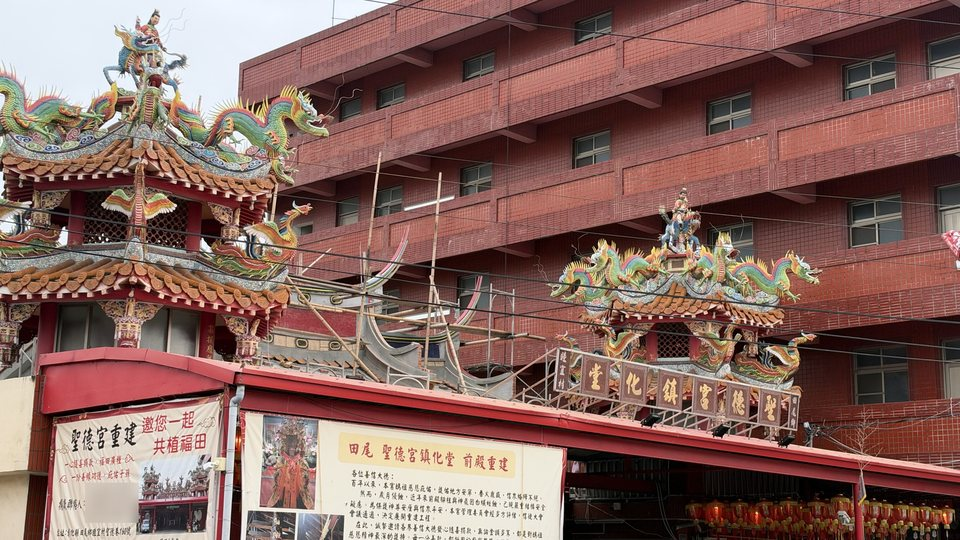
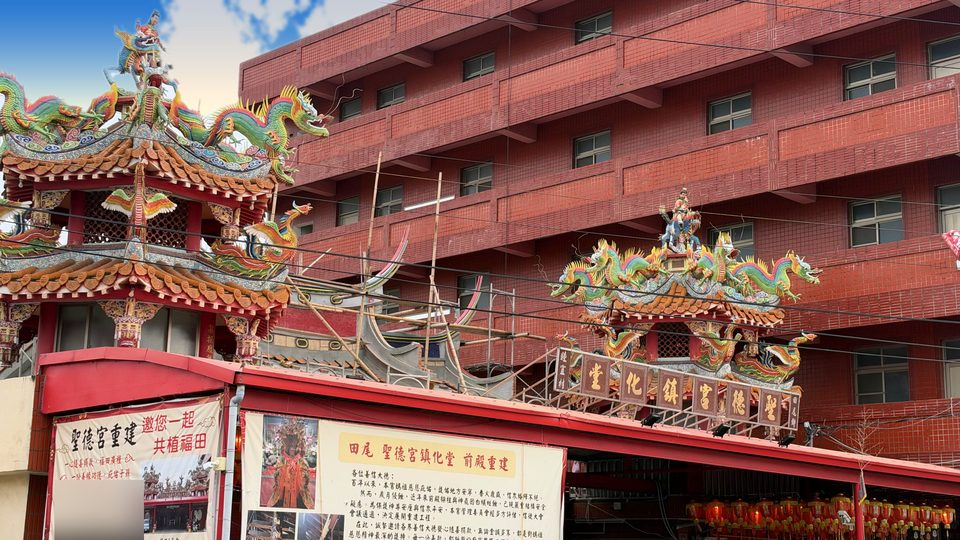
各村新照片（廟宇、街道、地景）上線；署名全民英語編修；睦宜、新生照片換成編修版

diff --git a/village/haifeng.html b/village/haifeng.html
@@ -14,7 +14,7 @@
 <meta property="og:title" content="海豐村｜田尾鄉 Haifeng Village — 位置、人口與特色">
 <meta property="og:description" content="海豐村是彰化縣田尾鄉的一個村（第三選區），115 年 9 月人口 1,432 人。面積是全鄉最大的村。">
 <meta property="og:url" content="https://tianwei.efetl.com/village/haifeng.html">
-<meta property="og:image" content="https://tianwei.efetl.com/photos/3d/haifeng.jpg">
+<meta property="og:image" content="https://tianwei.efetl.com/photos/haifeng.jpg">
 <meta name="twitter:card" content="summary_large_image">
 <script type="application/ld+json">{"@context": "https://schema.org", "@graph": [{"@type": "BreadcrumbList", "itemListElement": [{"@type": "ListItem", "position": 1, "name": "花鄉田尾", "item": "https://tianwei.efetl.com/"}, {"@type": "ListItem", "position": 2, "name": "田尾鄉 20 村", "item": "https://tianwei.efetl.com/villages.html"}, {"@type": "ListItem", "position": 3, "name": "海豐村", "item": "https://tianwei.efetl.com/village/haifeng.html"}]}, {"@type": "Place", "name": "海豐村", "alternateName": "Haifeng Village", "description": "面積是全鄉最大的村。沛霖宮祭祀三山國王，1889 年建宮。海豐崙一帶的巷弄畫滿彩繪，被稱為「海豐崙彩繪村」。", "url": "https://tianwei.efetl.com/village/haifeng.html", "containedInPlace": {"@type": "AdministrativeArea", "name": "田尾鄉", "alternateName": "Tianwei Township", "containedInPlace": {"@type": "AdministrativeArea", "name": "彰化縣"}}}]}</script>
 <link rel="stylesheet" href="village.css">
@@ -30,8 +30,8 @@
 <p><span class="tag" style="background:#4a9bd6">第三選區</span></p>
 <div class="grid2">
   <div class="card">
-    <figure class="photo"><img src="../photos/3d/haifeng.jpg" width="960" height="540" alt="海豐村（Haifeng Village）" loading="lazy"><figcaption>3D 示意圖，非實景照片<span lang="en"> · 3D illustration, not a real photo</span></figcaption></figure>
-    
+    <figure class="photo"><img src="../photos/haifeng.jpg" width="960" height="540" alt="海豐村（Haifeng Village）" loading="lazy"><figcaption>海豐村的彩繪街道：白牆上畫著仙人掌、檯燈與花草，右側是彩色磚牆｜全民英語編修</figcaption></figure>
+    <figure class="photo"><img src="../photos/haifeng-temple.jpg" width="960" height="540" alt="海豐村沛霖宮前方的紅色大遮棚與廟埕｜全民英語編修" loading="lazy"><figcaption>海豐村沛霖宮前方的紅色大遮棚與廟埕｜全民英語編修</figcaption></figure>
     
     <p>面積是全鄉最大的村。沛霖宮祭祀三山國王，1889 年建宮。海豐崙一帶的巷弄畫滿彩繪，被稱為「海豐崙彩繪村」。</p>
     <p style="color:var(--muted)" lang="en">The largest village in the township by area. Peilin Temple honors the Three Mountain Kings (built 1889). The lanes of the Haifenglun area are covered in murals, known as the &quot;Haifenglun Painted Village&quot;.</p>

diff --git a/village/nanzeng.html b/village/nanzeng.html
@@ -14,7 +14,7 @@
 <meta property="og:title" content="南曾村｜田尾鄉 Nanzeng Village — 位置、人口與特色">
 <meta property="og:description" content="南曾村是彰化縣田尾鄉的一個村（第一選區），115 年 9 月人口 1,430 人。南曾和北曾一帶，日治時期屬於「曾厝崙」，戰後才分成兩個村。">
 <meta property="og:url" content="https://tianwei.efetl.com/village/nanzeng.html">
-<meta property="og:image" content="https://tianwei.efetl.com/photos/3d/nanzeng.jpg">
+<meta property="og:image" content="https://tianwei.efetl.com/photos/nanzeng.jpg">
 <meta name="twitter:card" content="summary_large_image">
 <script type="application/ld+json">{"@context": "https://schema.org", "@graph": [{"@type": "BreadcrumbList", "itemListElement": [{"@type": "ListItem", "position": 1, "name": "花鄉田尾", "item": "https://tianwei.efetl.com/"}, {"@type": "ListItem", "position": 2, "name": "田尾鄉 20 村", "item": "https://tianwei.efetl.com/villages.html"}, {"@type": "ListItem", "position": 3, "name": "南曾村", "item": "https://tianwei.efetl.com/village/nanzeng.html"}]}, {"@type": "Place", "name": "南曾村", "alternateName": "Nanzeng Village", "description": "南曾和北曾一帶，日治時期屬於「曾厝崙」，戰後才分成兩個村。村裡有廣霖宮。", "url": "https://tianwei.efetl.com/village/nanzeng.html", "containedInPlace": {"@type": "AdministrativeArea", "name": "田尾鄉", "alternateName": "Tianwei Township", "containedInPlace": {"@type": "AdministrativeArea", "name": "彰化縣"}}}]}</script>
 <link rel="stylesheet" href="village.css">
@@ -30,7 +30,7 @@
 <p><span class="tag" style="background:#3fa58a">第一選區</span></p>
 <div class="grid2">
   <div class="card">
-    <figure class="photo"><img src="../photos/3d/nanzeng.jpg" width="960" height="540" alt="南曾村（Nanzeng Village）" loading="lazy"><figcaption>3D 示意圖，非實景照片<span lang="en"> · 3D illustration, not a real photo</span></figcaption></figure>
+    <figure class="photo"><img src="../photos/nanzeng.jpg" width="960" height="540" alt="南曾村（Nanzeng Village）" loading="lazy"><figcaption>南曾村的苗圃：成排的盆栽花木，遠處是民宅｜全民英語編修</figcaption></figure>
     
     
     <p>南曾和北曾一帶，日治時期屬於「曾厝崙」，戰後才分成兩個村。村裡有廣霖宮。</p>

diff --git a/village/raoping.html b/village/raoping.html
@@ -31,9 +31,10 @@
 <div class="grid2">
   <div class="card">
     <figure class="photo"><img src="../photos/raoping.jpg" width="960" height="540" alt="饒平村（Raoping Village）" loading="lazy"><figcaption>田尾國民中學校門｜全民英語編修</figcaption></figure>
-    
+    <figure class="photo"><img src="../photos/raoping-temple.jpg" width="960" height="540" alt="饒平村天乙宮的牌樓（匾額寫著「天乙宮」），後方可見正殿｜全民英語編修" loading="lazy"><figcaption>饒平村天乙宮的牌樓（匾額寫著「天乙宮」），後方可見正殿｜全民英語編修</figcaption></figure>
     <figure class="photo"><img src="../photos/raoping-x1.jpg" width="960" height="540" alt="田尾國民中學的另一個校門（門柱有馬賽克壁畫）｜全民英語編修" loading="lazy"><figcaption>田尾國民中學的另一個校門（門柱有馬賽克壁畫）｜全民英語編修</figcaption></figure>
     <figure class="photo"><img src="../photos/raoping-x2.jpg" width="960" height="540" alt="田尾花卉拍賣市場外觀｜全民英語編修" loading="lazy"><figcaption>田尾花卉拍賣市場外觀｜全民英語編修</figcaption></figure>
+    <figure class="photo"><img src="../photos/raoping-x3.jpg" width="960" height="540" alt="饒平村天乙宮的廟埕與正殿，兩旁各有一棵修剪成傘形的大樹｜全民英語編修" loading="lazy"><figcaption>饒平村天乙宮的廟埕與正殿，兩旁各有一棵修剪成傘形的大樹｜全民英語編修</figcaption></figure>
     
     <p>全鄉人口最多的村。田尾國小、田尾國中和田尾花卉拍賣市場都在這裡；天乙宮主祀蘇府王爺。</p>
     <p style="color:var(--muted)" lang="en">The most populous village in the township. Tianwei Elementary School, Tianwei Junior High School and the Tianwei Flower Auction Market are all here; Tianyi Temple honors Lord Su.</p>

diff --git a/village/lufeng.html b/village/lufeng.html
@@ -31,7 +31,8 @@
 <div class="grid2">
   <div class="card">
     <figure class="photo"><img src="../photos/lufeng.jpg" width="960" height="540" alt="陸豐村（Lufeng Village）" loading="lazy"><figcaption>陸豐國民小學校舍外觀（空拍）｜全民英語編修</figcaption></figure>
-    
+    <figure class="photo"><img src="../photos/lufeng-temple.jpg" width="960" height="540" alt="陸豐村天壽宮的正面（匾額寫著「天壽宮」）｜全民英語編修" loading="lazy"><figcaption>陸豐村天壽宮的正面（匾額寫著「天壽宮」）｜全民英語編修</figcaption></figure>
+    <figure class="photo"><img src="../photos/lufeng-x1.jpg" width="960" height="540" alt="陸豐國小的大門（門柱上寫著「陸豐國民小學」）｜全民英語編修" loading="lazy"><figcaption>陸豐國小的大門（門柱上寫著「陸豐國民小學」）｜全民英語編修</figcaption></figure>
     
     <p>陸豐和海豐原本合稱「海豐崙」，先民來自廣東惠州府的海豐縣。村民以花卉、蔬菜、水稻等農業為主；陸豐國小也在這裡；2011 年協議以天壽宮為陸豐的庄廟。</p>
     <p style="color:var(--muted)" lang="en">Lufeng and Haifeng were once together called &quot;Haifenglun&quot;, settled by people from Haifeng County in Guangdong. Villagers farm flowers, vegetables and rice; Lufeng Elementary School is also here; in 2011 Tianshou Temple was agreed to be Lufeng&#x27;s village temple.</p>

diff --git a/village/dalian.html b/village/dalian.html
@@ -31,7 +31,7 @@
 <div class="grid2">
   <div class="card">
     <figure class="photo"><img src="../photos/3d/dalian.jpg" width="960" height="540" alt="打簾村（Dalian Village）" loading="lazy"><figcaption>3D 示意圖，非實景照片<span lang="en"> · 3D illustration, not a real photo</span></figcaption></figure>
-    
+    <figure class="photo"><img src="../photos/dalian-temple.jpg" width="960" height="540" alt="打簾村受武宮的牌樓（匾額寫著「受武宮」）｜全民英語編修" loading="lazy"><figcaption>打簾村受武宮的牌樓（匾額寫著「受武宮」）｜全民英語編修</figcaption></figure>
     
     <p>公路花園的遊客服務中心就在打簾村。相傳一百多年前，打簾人巫修齊從漳州帶回花木種子和枝條，與兄長巫規矩試種，田尾的花卉事業由此發展。</p>
     <p style="color:var(--muted)" lang="en">The Highway Garden visitor center is in Dalian. The story goes that over 100 years ago a local, Wu Xiu-qi, brought seeds and cuttings home from Zhangzhou and planted them with his brother — the start of Tianwei&#x27;s flower business.</p>

diff --git a/credits.html b/credits.html
@@ -34,6 +34,7 @@ a{color:var(--green)}
       <li>陸豐國小的照片（空拍）：全民英語編修（2026）</li>
       <li>南鎮國小的照片：全民英語編修（2026）</li>
       <li>福田村的田野、新生村國聖宮、睦宜村的稻田、睦宜聖德宮與睦宜社區活動中心的照片：全民英語編修（2026）；照片中的私人電話與門牌號碼已模糊處理</li>
+      <li>各村廟宇、街道與地景照片（北鎮、北曾、南曾、打簾、新生、柳鳳、海豐、睦宜、溪畔、饒平、陸豐）：全民英語編修（2026）；部分照片已移除路邊車輛、電線桿與電線，並更換天空背景；照片中的私人電話、門牌號碼與選舉廣告人像已模糊處理</li>
       <li>夜晚電照菊田的照片：全民英語編修（2026）</li>
       <li>3D 地圖裡的田中鎮與 7 號公車：里界與站牌座標 © OpenStreetMap 貢獻者（<a href="https://www.openstreetmap.org/copyright" target="_blank" rel="noopener">ODbL</a>）；公車路線依道路計算，僅供示意</li>
   </ul>

diff --git a/village/beizeng.html b/village/beizeng.html
@@ -31,7 +31,7 @@
 <div class="grid2">
   <div class="card">
     <figure class="photo"><img src="../photos/3d/beizeng.jpg" width="960" height="540" alt="北曾村（Beizeng Village）" loading="lazy"><figcaption>3D 示意圖，非實景照片<span lang="en"> · 3D illustration, not a real photo</span></figcaption></figure>
-    
+    <figure class="photo"><img src="../photos/beizeng-temple.jpg" width="960" height="540" alt="北曾村肇天宮的牌樓與廟宇屋頂（匾額寫著「肇天宮」）｜全民英語編修" loading="lazy"><figcaption>北曾村肇天宮的牌樓與廟宇屋頂（匾額寫著「肇天宮」）｜全民英語編修</figcaption></figure>
     
     <p>北曾和南曾一帶，日治時期屬於「曾厝崙」（八大字之一），戰後才分成兩個村。</p>
     <p style="color:var(--muted)" lang="en">Beizeng and Nanzeng were once part of &quot;Zengcuolun&quot; (one of the township&#x27;s eight old districts) and became two villages after the war.</p>

diff --git a/village/beizhen.html b/village/beizhen.html
@@ -31,7 +31,7 @@
 <div class="grid2">
   <div class="card">
     <figure class="photo"><img src="../photos/3d/beizhen.jpg" width="960" height="540" alt="北鎮村（Beizhen Village）" loading="lazy"><figcaption>3D 示意圖，非實景照片<span lang="en"> · 3D illustration, not a real photo</span></figcaption></figure>
-    
+    <figure class="photo"><img src="../photos/beizhen-temple.jpg" width="960" height="540" alt="北鎮村鎮安宮的正面，屋頂有彩色的龍與人物裝飾｜全民英語編修" loading="lazy"><figcaption>北鎮村鎮安宮的正面，屋頂有彩色的龍與人物裝飾｜全民英語編修</figcaption></figure>
     
     <p>北鎮和南鎮一帶，日治時期屬於「鎮平」（八大字之一）。村裡有鎮平鎮安宮。</p>
     <p style="color:var(--muted)" lang="en">Beizhen and Nanzhen were part of &quot;Zhenping&quot; (one of the township&#x27;s eight old districts) in the Japanese era. Zhenping Zhen-an Temple is in the village.</p>

diff --git a/village/liufeng.html b/village/liufeng.html
@@ -31,7 +31,7 @@
 <div class="grid2">
   <div class="card">
     <figure class="photo"><img src="../photos/3d/liufeng.jpg" width="960" height="540" alt="柳鳳村（Liufeng Village）" loading="lazy"><figcaption>3D 示意圖，非實景照片<span lang="en"> · 3D illustration, not a real photo</span></figcaption></figure>
-    
+    <figure class="photo"><img src="../photos/liufeng-temple.jpg" width="960" height="540" alt="柳鳳村鳳聖宮的正面，前方有盆花與草地｜全民英語編修" loading="lazy"><figcaption>柳鳳村鳳聖宮的正面，前方有盆花與草地｜全民英語編修</figcaption></figure>
     
     <p>鄉公所官網的美食頁列出位在柳鳳路上的庭園餐廳「阿嬤私房菜」。</p>
     <p style="color:var(--muted)" lang="en">The township office&#x27;s food page lists a garden restaurant, &quot;Grandma&#x27;s Kitchen&quot;, on Liufeng Road.</p>

diff --git a/village/xipan.html b/village/xipan.html
@@ -31,7 +31,7 @@
 <div class="grid2">
   <div class="card">
     <figure class="photo"><img src="../photos/3d/xipan.jpg" width="960" height="540" alt="溪畔村（Xipan Village）" loading="lazy"><figcaption>3D 示意圖，非實景照片<span lang="en"> · 3D illustration, not a real photo</span></figcaption></figure>
-    
+    <figure class="photo"><img src="../photos/xipan-temple.jpg" width="960" height="540" alt="溪畔村朝天宮的正面（匾額寫著「朝天宮」，門前有石獅與龍柱）｜全民英語編修" loading="lazy"><figcaption>溪畔村朝天宮的正面（匾額寫著「朝天宮」，門前有石獅與龍柱）｜全民英語編修</figcaption></figure>
     
     <p>村裡的朝天宮主祀天上聖母。</p>
     <p style="color:var(--muted)" lang="en">Chaotian Temple in the village honors Mazu, the Heavenly Mother.</p>
